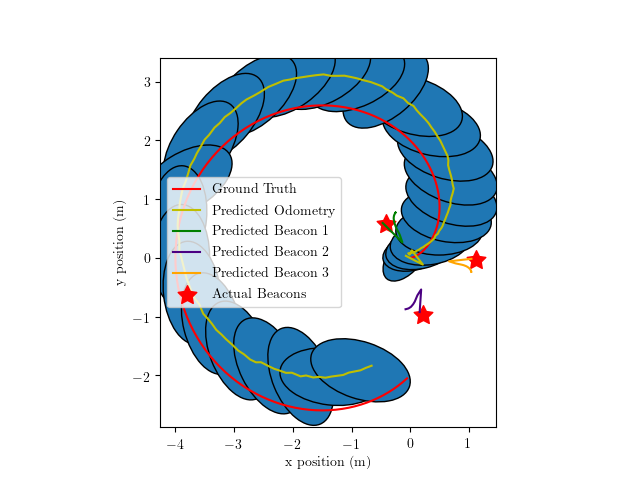
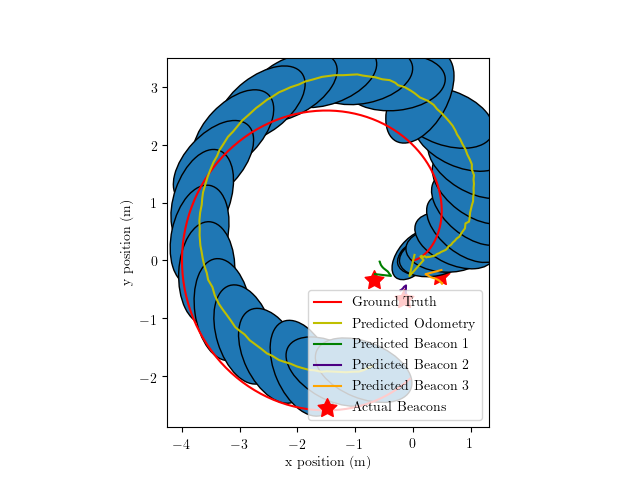
Finish untested implementation code

diff --git a/ros_slam.py b/ros_slam.py
@@ -9,53 +9,18 @@ from sensor_msgs.point_cloud2 import read_points, create_cloud_xyz32
 from sensor_msgs.msg import PointCloud2
 
 
-def reorderPoints(reference, points):
-    '''
-    Sort the points to least-squares resemble the reference points
-
-    @param x the pose of the object
-    @param points array of shape (n, 2) denoting the locations
-    of the beacons
-
-    @return points ordered by least squared distance from
-    corresponding stored points
-
-    Example:
-    >>> reference = np.array([[1,2], [10,9], [5,4]])
-    >>> points = np.array([[4, 5], [3, 2], [8,7]])
-    >>> reorderPoints(reference, points)
-    Out:
-    array([[3, 2],
-           [8, 7],
-           [4, 5]])
-    '''
-
-    perms = np.array(list(permutations(range(points.shape[0]))))
-    relativeCoords = reference - points[perms]
-    ssd = (relativeCoords**2).sum((2, 1))
-
-    return points[perms[ssd.argmin()]]
-
-
 class RosSlam:
     def __init__(self,
                  R=np.eye(6) * 0.005,
-                 Q=np.diag(0.005, 0.005, 0.001, 0.005,
-                           0.001, 0, 0, 0, 0, 0, 0),
-                 P=np.diag([0, 0, 1, .001, 0.001, 2, 2, 2, 2, 2, 2])):
+                 Q=np.diag([.1, .1, (np.pi / 18)**2, 0.1,
+                            (np.pi/18)**2, .0, .0, .0, .0, .0, .0]),
+                 P=np.diag([0, 0, 1, 0.1, 0.05, 1, 1, 1, 1, 1, 1])):
 
         self.R = R
         self.Q = Q
         self.P = P
         self.x = np.zeros(11)
         self.t0 = rospy.Time.now()
-        self.H = np.array(
-            [[-1, 0, 0, 0, 0, 1, 0, 0, 0, 0, 0],
-             [0, -1, 0, 0, 0, 0, 1, 0, 0, 0, 0],
-             [-1, 0, 0, 0, 0, 0, 0, 1, 0, 0, 0],
-             [0, -1, 0, 0, 0, 0, 0, 0, 1, 0, 0],
-             [-1, 0, 0, 0, 0, 0, 0, 0, 0, 1, 0],
-             [0, -1, 0, 0, 0, 0, 0, 0, 0, 0, 1]])
 
         self.posePub = rospy.publisher(
             '/pose', PoseWithCovariance, queue_size=1)
@@ -65,32 +30,37 @@ class RosSlam:
         self.scanSub = rospy.Subscriber(
             '/measured_landmarks', PointCloud2, self.kalmanCb)
 
-    def reorderLandmarks(x, landmarks):
+    def HJacobian(self, x):
         '''
-        Sort the landmarks to least-squares resemble the existing landmarks
+        Calculate the jacobian of the measurement model at x.
 
-        @param x the pose of the object
-        @param landmarks array of shape (n, 2) denoting the locations
-        of the beacons
-
-        @return landmarks ordered by least squared distance from
-        corresponding stored landmarks
+        @param x the 11 dimensional stat vector about which to approximate.
         '''
-
-        rotation = np.array(
-            [[np.cos(x[2]), -np.sin(x[2])],
-             [np.sin(x[2]), np.cos(x[2])]])
-
-        rotated = np.dot(landmarks, rotation.T)
-        translated = rotated + x[:2]
-
-        return reorderPoints(x[-6:].reshape(-1, 2), translated).ravel()
-
-    def FJacobian(self, dt):
         return np.array(
-            [[1, 0, - self.x[3] * np.sin(self.x[2]) * dt,
-              np.cos(self.x[2]) * dt, 0, 0, 0, 0, 0, 0, 0],
-             [0, 1, self.x[3] * np.cos(self.x[2]) * dt, np.sin(self.x[2])
+            [[-np.cos(x[2]), -np.sin(x[2]), -np.sin(x[2]) * (x[5] - x[0]) + np.cos(x[2]) * (x[6] - x[1]), 0, 0, np.cos(x[2]), np.sin(x[2]), 0, 0, 0, 0],
+             [np.sin(x[2]), -np.cos(x[2]), -np.cos(x[2]) * (x[5] - x[0]) - np.sin(x[2])
+              * (x[6] - x[1]), 0, 0, -np.sin(x[2]), np.cos(x[2]), 0, 0, 0, 0],
+             [-np.cos(x[2]), -np.sin(x[2]), -np.sin(x[2]) * (x[7] - x[0]) + np.cos(x[2])
+              * (x[8] - x[1]), 0, 0, 0, 0, np.cos(x[2]), np.sin(x[2]), 0, 0],
+             [np.sin(x[2]), -np.cos(x[2]), -np.cos(x[2]) * (x[7] - x[0]) - np.sin(x[2])
+              * (x[8] - x[1]), 0, 0, 0, 0, -np.sin(x[2]), np.cos(x[2]), 0, 0],
+             [-np.cos(x[2]), -np.sin(x[2]), -np.sin(x[2]) * (x[9] - x[0]) + np.cos(x[2])
+              * (x[10] - x[1]), 0, 0, 0, 0, 0, 0, np.cos(x[2]), np.sin(x[2])],
+             [np.sin(x[2]), -np.cos(x[2]), -np.cos(x[2]) * (x[9] - x[0]) - np.sin(x[2])
+              * (x[10] - x[1]), 0, 0, 0, 0, 0, 0, -np.sin(x[2]), np.cos(x[2])]
+             ])
+
+    def FJacobian(self, x, dt):
+        '''
+        Calculate the jacobian of the prediction model at x.
+
+        @param x the 11 dimensional state vector about which to approximate.
+        @return the linear estimation of the prediction model about x.
+        '''
+        return np.array(
+            [[1, 0, - x[3] * np.sin(x[2]) * dt, np.cos(x[2]) * dt,
+              0, 0, 0, 0, 0, 0, 0],
+             [0, 1, x[3] * np.cos(x[2]) * dt, np.sin(x[2])
               * dt, 0, 0, 0, 0, 0, 0, 0],
              [0, 0, 1, 0, dt, 0, 0, 0, 0, 0, 0],
              [0, 0, 0, 1, 0, 0, 0, 0, 0, 0, 0],
@@ -102,9 +72,37 @@ class RosSlam:
              [0, 0, 0, 0, 0, 0, 0, 0, 0, 1, 0],
              [0, 0, 0, 0, 0, 0, 0, 0, 0, 0, 1]])
 
+    def hx(self, x):
+        '''
+        Convert from the state space to the measurement space.
+        The measurement space is a 6 dimensional vector denoting the
+        Cartesian locations of the landmarks relative to the robot.
+
+        @param x the state to convert to a measurement.
+        @return the corresponding measurement to the state.
+        '''
+        measurement = x[-6:].reshape(-1, 2)
+        rotation = np.array([[np.cos(x[2]), np.sin(x[2])],
+                             [-np.sin(x[2]), np.cos(x[2])]])
+        translated = measurement - x[:2]
+        rotated = np.dot(translated, rotation.T)
+        return rotated.ravel()
+
+    def fx(self, x, dt):
+        '''
+        Predict the next state.
+        @param x the 11 dimensional state vector from which to predict the
+        next step.
+        @return the predicted updated state.
+        '''
+        y = x.copy()
+        y[0] += dt * x[3] * np.cos(y[2])
+        y[1] += dt * x[3] * np.sin(y[2])
+        y[2] += dt * x[4]
+        return y
+
     def kalmanCb(self, data):
-        measurement = self.reorderLandmarks(
-            self.x, np.array(list(read_points(data)))[:, :2])
+        measurement = np.array([(p.x, p.y) for p in data.points]).ravel()
 
         dt = (data.header.stamp - self.t0).to_sec()
         self.t0 = data.header.stamp
@@ -112,16 +110,18 @@ class RosSlam:
         # Predict
         F = self.FJacobian(self.x, dt)
 
-        xHat = np.dot(F, self.x)
+        xHat = self.fx(self.x, dt)
         PHat = np.dot(np.dot(F, self.P), F.T) + self.Q
 
         # Update
-        y = measurement - np.dot(self.H, xHat)
-        S = np.dot(np.dot(self.H, PHat), self.H.T) + self.R
-        K = np.dot(np.dot(PHat, self.H.T), np.linalg.inv(S))
+        y = measurement - self.hx(xHat)
+
+        H = self.HJacobian(xHat)
+        S = np.dot(np.dot(H, PHat), H.T) + self.R
+        K = np.dot(np.dot(PHat, H.T), np.linalg.inv(S))
 
         self.x = xHat + np.dot(K, y)
-        self.P = np.dot(np.eye(K.shape[0]) - np.dot(K, self.H), PHat)
+        self.P = np.dot(np.eye(K.shape[0]) - np.dot(K, H), PHat)
 
         # Publish
         pose = PoseWithCovariance()

diff --git a/slam.py b/slam.py
@@ -89,10 +89,10 @@ def kalman(x, P, measurement, R, Q):
     @return the updated state and confidence.
     '''
     F = FJacobian(x)
-    H = HJacobian(x)
 
     xHat = fx(x)
     PHat = np.dot(np.dot(F, P), F.T) + Q
+    H = HJacobian(xHat)
 
     y = measurement - hx(xHat)
     S = np.dot(np.dot(H, PHat), H.T) + R
